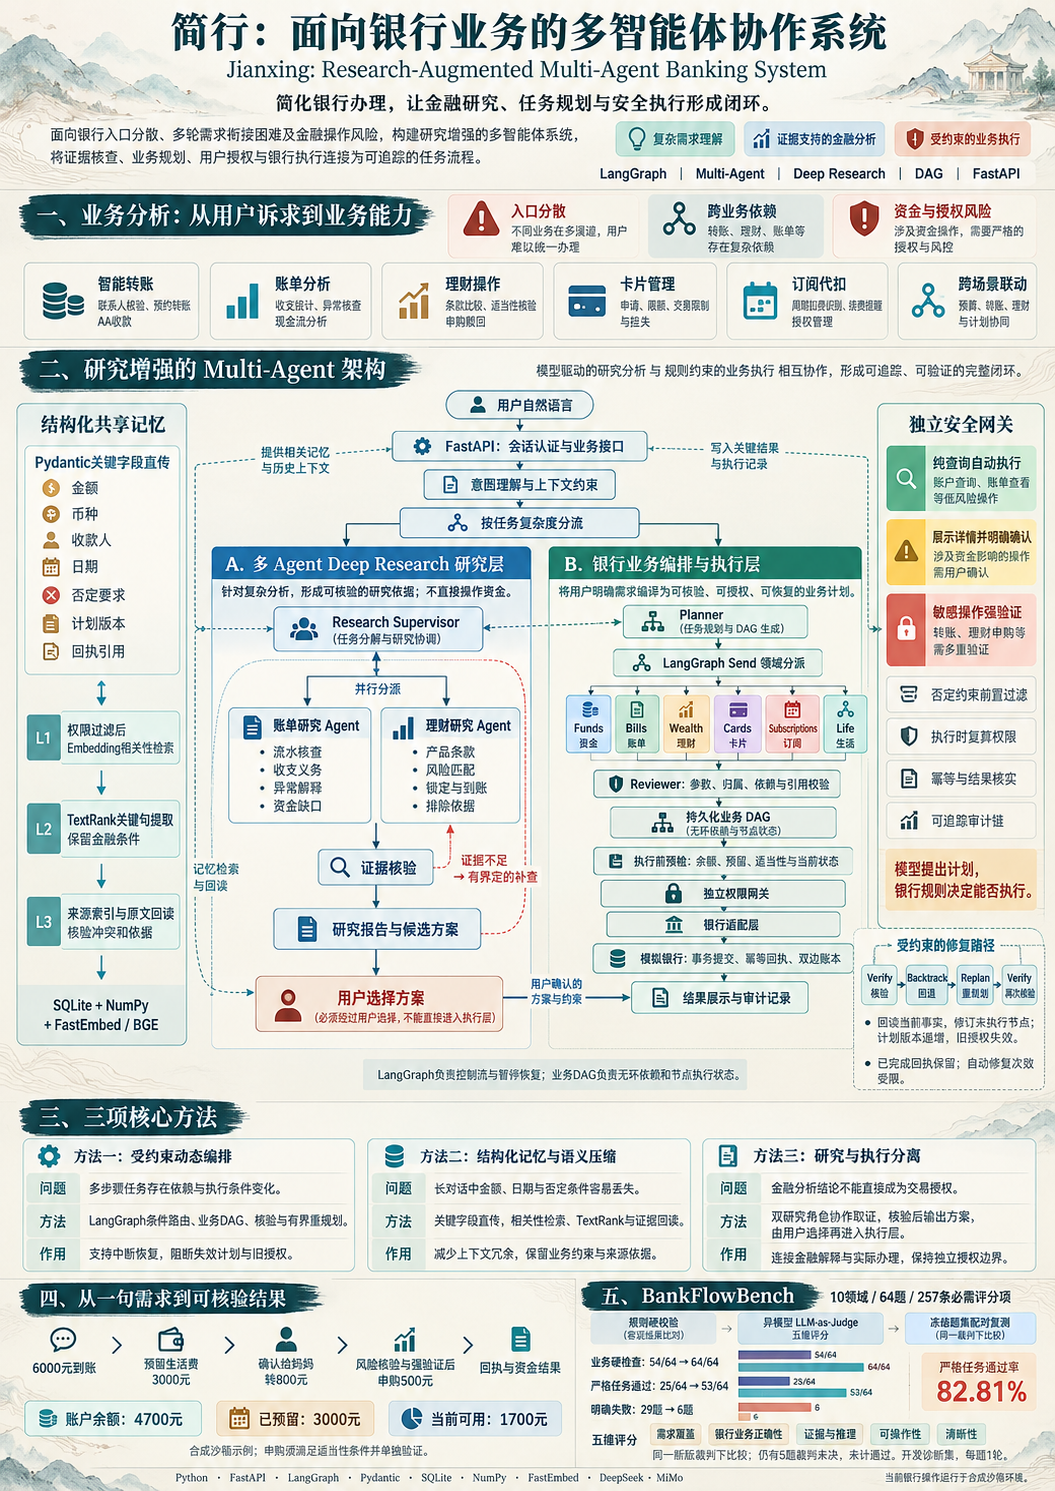
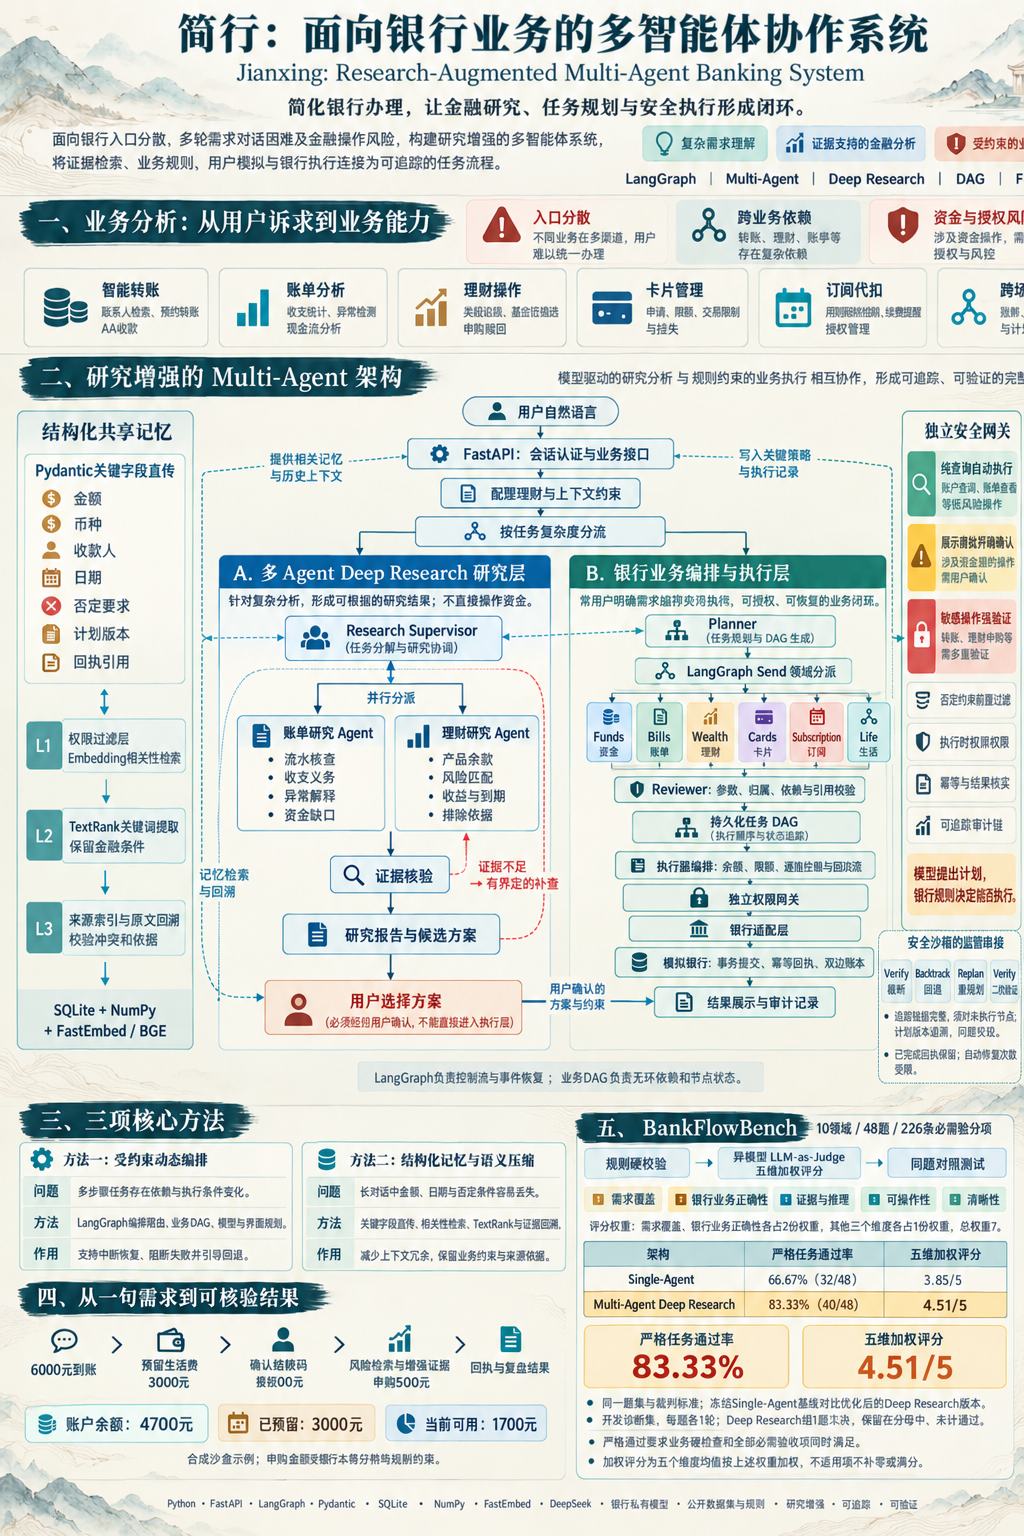
Display updated Jianxing research and evaluation poster inline

diff --git a/README.md b/README.md
@@ -4,7 +4,11 @@
 
 全部界面资金、产品、用户和操作均为合成沙箱数据，不产生真实银行扣款。截图通过实际本地UI与API生成；它们属于可复现演示模式，不代表业务模型的评测分数。
 
-- [系统架构海报](assets/jianxing-poster.png)
+## 项目海报
+
+![简行：银行多智能体研究与评测架构海报](assets/jianxing-poster.webp)
+
+## 产品界面
 - [工作台](assets/screenshots/01-workspace.png)
 - [计划、资金预检与DAG](assets/screenshots/02-plan-and-funding.png)
 - [强验证与回执](assets/screenshots/03-verification.png)
